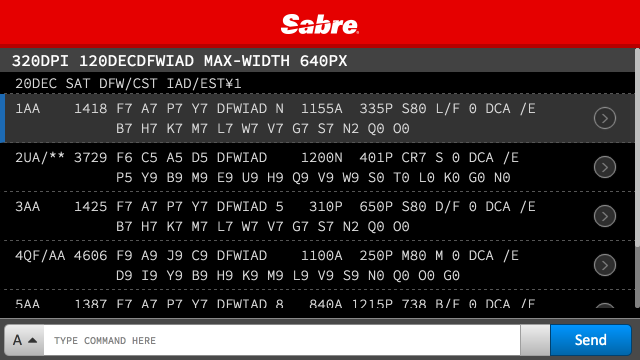
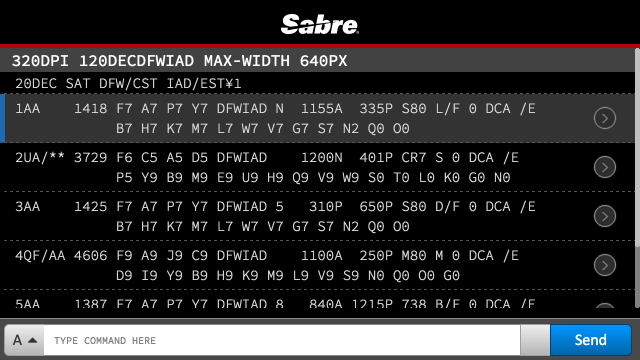
black header

Changed region(s): [[0.0, 0.0, 1.0, 0.1222]]

diff --git a/index.html b/index.html
@@ -10,7 +10,7 @@
   <link rel="stylesheet" type="text/css" href="css/responsive.css">
 </head>
 <body class="mobile">
-  <div class="action-bar">
+  <div class="action-bar" style="background-color:black">
     <paper-icon-button icon="menu" role="button" tabindex="0" aria-label="menu"></paper-icon-button>
     <h1 class="action-bar-title"><i class="sabre-logo"></i></h1>
     <paper-icon-button icon="refresh" role="button" tabindex="0" aria-label="refresh"></paper-icon-button>
